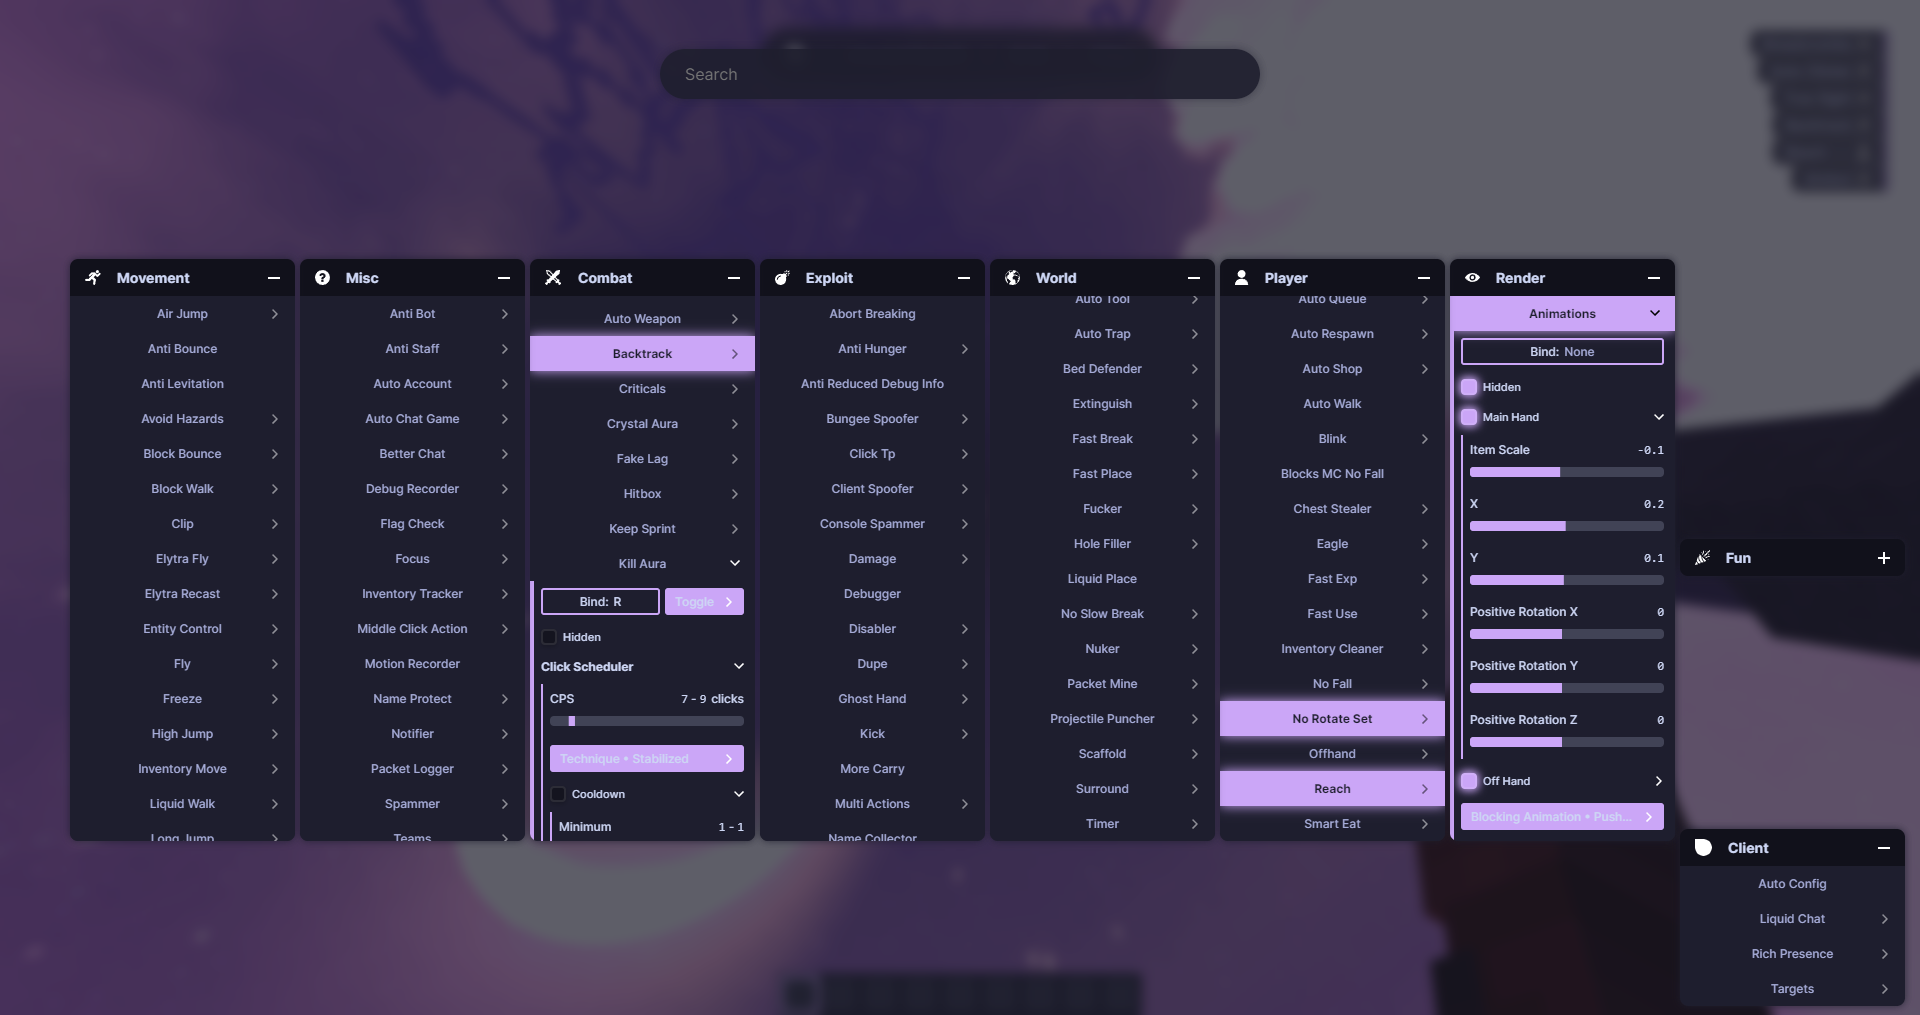
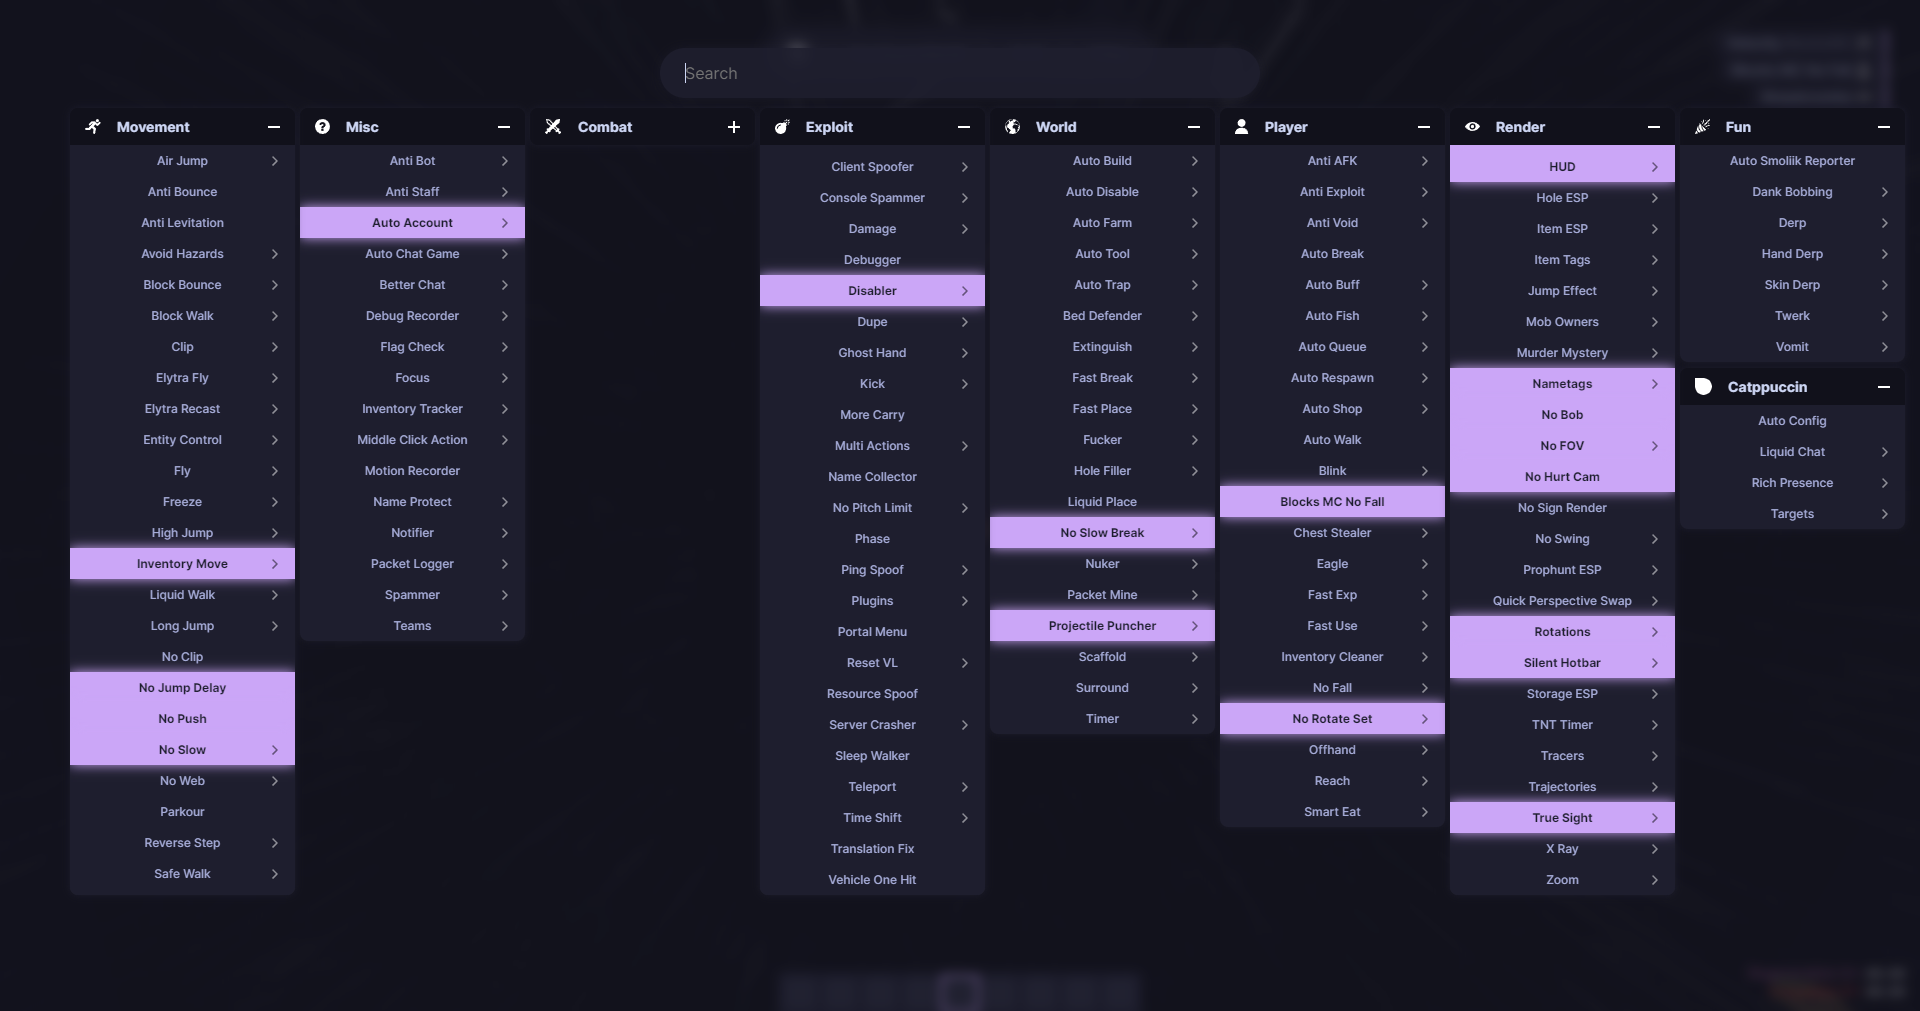
feat: better compact gui (#19)
feat(clickgui): more compact interface
chore: add picture of clickgui changes

diff --git a/src/routes/clickgui/Panel.svelte b/src/routes/clickgui/Panel.svelte
@@ -5,7 +5,7 @@
     import Module from "./Module.svelte";
     import type {ModuleToggleEvent} from "../../integration/events";
     import {fly} from "svelte/transition";
-    import {quintOut} from "svelte/easing";
+    import {expoInOut, quintOut} from "svelte/easing";
     import {
         gridSize,
         highlightModuleName,
@@ -212,8 +212,8 @@
         class="panel"
         style="left: {panelConfig.left}px; top: {panelConfig.top}px; z-index: {panelConfig.zIndex};"
         bind:this={panelElement}
-        in:fly|global={{y: -30, duration: 200, easing: quintOut}}
-        out:fly|global={{y: -30, duration: 200, easing: quintOut}}
+        in:fly|global={{y: -30, duration: 250, easing: expoInOut}}
+        out:fly|global={{y: -30, duration: 250, easing: expoInOut}}
 >
     <!-- svelte-ignore a11y-no-static-element-interactions -->
     <div
@@ -226,7 +226,7 @@
                 src="img/clickgui/icon-{category.toLowerCase()}.svg"
                 alt="icon"
         />
-        <span class="category">{category}</span>
+        <span class="category">{category === 'Client' ? 'Catppuccin' : category}</span>
 
         <!-- svelte-ignore a11y_consider_explicit_label -->
         <button class="expand-toggle" on:click={toggleExpanded}>
@@ -272,7 +272,7 @@
   }
 
   .modules {
-    max-height: 545px;
+    max-height: 750px;
     overflow-y: auto;
     overflow-x: hidden;
     background-color: rgba($base, 1.0);

diff --git a/src/routes/clickgui/setting/BindSetting.svelte b/src/routes/clickgui/setting/BindSetting.svelte
@@ -104,18 +104,19 @@
   }
 
   .change-bind {
-    background-color: transparent;
-    border: solid 2px $accent;
-    border-radius: 3px;
+    background: $mantle;
+    border: 2px solid rgba($text, 0.1);
+    border-radius: 6px;
     cursor: pointer;
     padding: 4px;
-    font-weight: 500;
+    font-weight: 900;
     color: $text;
     font-size: 12px;
     font-family: "Inter", sans-serif;
     width: 100%;
     display: flex;
     justify-content: center;
+    align-items: center;
     column-gap: 5px;
 
     .name {
@@ -123,7 +124,9 @@
     }
 
     .none {
-      color: $subtext0;
+      color: $subtext1;
+      opacity: 75%;
+      font-weight: 300;
     }
   }
 </style>

diff --git a/src/routes/clickgui/setting/TextArraySetting.svelte b/src/routes/clickgui/setting/TextArraySetting.svelte
@@ -98,12 +98,12 @@
 
   .value {
     width: 100%;
-    background-color: rgba($base, .36);
-    font-family: monospace;
+    background-color: rgba($crust, .5);
+    border: 1px solid rgba($text, 0.1);
+    border-left: 2px solid $accent;
     font-size: 12px;
     color: $text;
     border: none;
-    border-bottom: solid 2px $accent;
     padding: 6px;
     border-radius: 3px;
     transition: ease border-color .2s;

diff --git a/src/routes/clickgui/Module.svelte b/src/routes/clickgui/Module.svelte
@@ -123,7 +123,7 @@
       font-size: 12px;
       font-weight: 500;
       position: relative;
-      padding: 10px;
+      padding: 8px;
 
       &.highlight::before {
         content: "";
@@ -154,8 +154,7 @@
     }
 
     .settings {
-      background-color: rgba($base, 0.5);
-      border-left: solid 4px $accent;
+      background-color: rgba($crust, 0.75);
       padding: 0 11px 0 7px;
     }
 

diff --git a/src/routes/clickgui/setting/ConfigurableSetting.svelte b/src/routes/clickgui/setting/ConfigurableSetting.svelte
@@ -52,10 +52,6 @@
 <style lang="scss">
   @use "../../../colors.scss" as *;
 
-  .setting {
-    padding: 7px 0;
-  }
-
   .title {
     color: $text;
     font-size: 12px;
@@ -73,7 +69,8 @@
   }
 
   .nested-settings {
-    border-left: solid 2px $accent;
-    padding-left: 7px;
+    background: rgba($crust, 0.3);
+    width: 100%;
+    padding: 0px 4px;
   }
 </style>

diff --git a/src/routes/clickgui/setting/common/Dropdown.svelte b/src/routes/clickgui/setting/common/Dropdown.svelte
@@ -70,13 +70,14 @@
   }
 
   .head {
-    background-color: $accent;
+    background-color: $mantle;
+    border: 2px solid rgba($text, 0.1);
     padding: 6px 10px;
     cursor: pointer;
     display: flex;
     align-items: center;
     position: relative;
-    border-radius: 3px;
+    border-radius: 6px;
     transition: ease border-radius .2s;
 
     .text {

diff --git a/src/routes/clickgui/setting/ChoiceSetting.svelte b/src/routes/clickgui/setting/ChoiceSetting.svelte
@@ -89,7 +89,8 @@
         }
     }
     .nested-settings {
-        border-left: solid 2px $accent;
-        padding-left: 7px;
+        background: rgba($crust, 0.3);
+        width: 100%;
+        padding: 0px 4px;
     }
 </style>

diff --git a/src/routes/clickgui/setting/TogglableSetting.svelte b/src/routes/clickgui/setting/TogglableSetting.svelte
@@ -90,7 +90,8 @@
     }
 
     .nested-settings {
-        border-left: solid 2px $accent;
-        padding-left: 7px;
+        background: rgba($crust, 0.3);
+        width: 100%;
+        padding: 0px 4px;
     }
 </style>

diff --git a/src/routes/clickgui/setting/common/ValueInput.svelte b/src/routes/clickgui/setting/common/ValueInput.svelte
@@ -44,7 +44,6 @@
   @use "../../../../colors.scss" as *;
 
   .value {
-    font-family: monospace;
     color: $text;
     font-weight: 500;
     font-size: 12px;

diff --git a/src/routes/clickgui/setting/nouislider.scss b/src/routes/clickgui/setting/nouislider.scss
@@ -9,6 +9,7 @@
     border: none;
     box-shadow: none;
     opacity: 0%;
+    transition: all 0.3s ease;
 }
 
 .noUi-handle::after,
